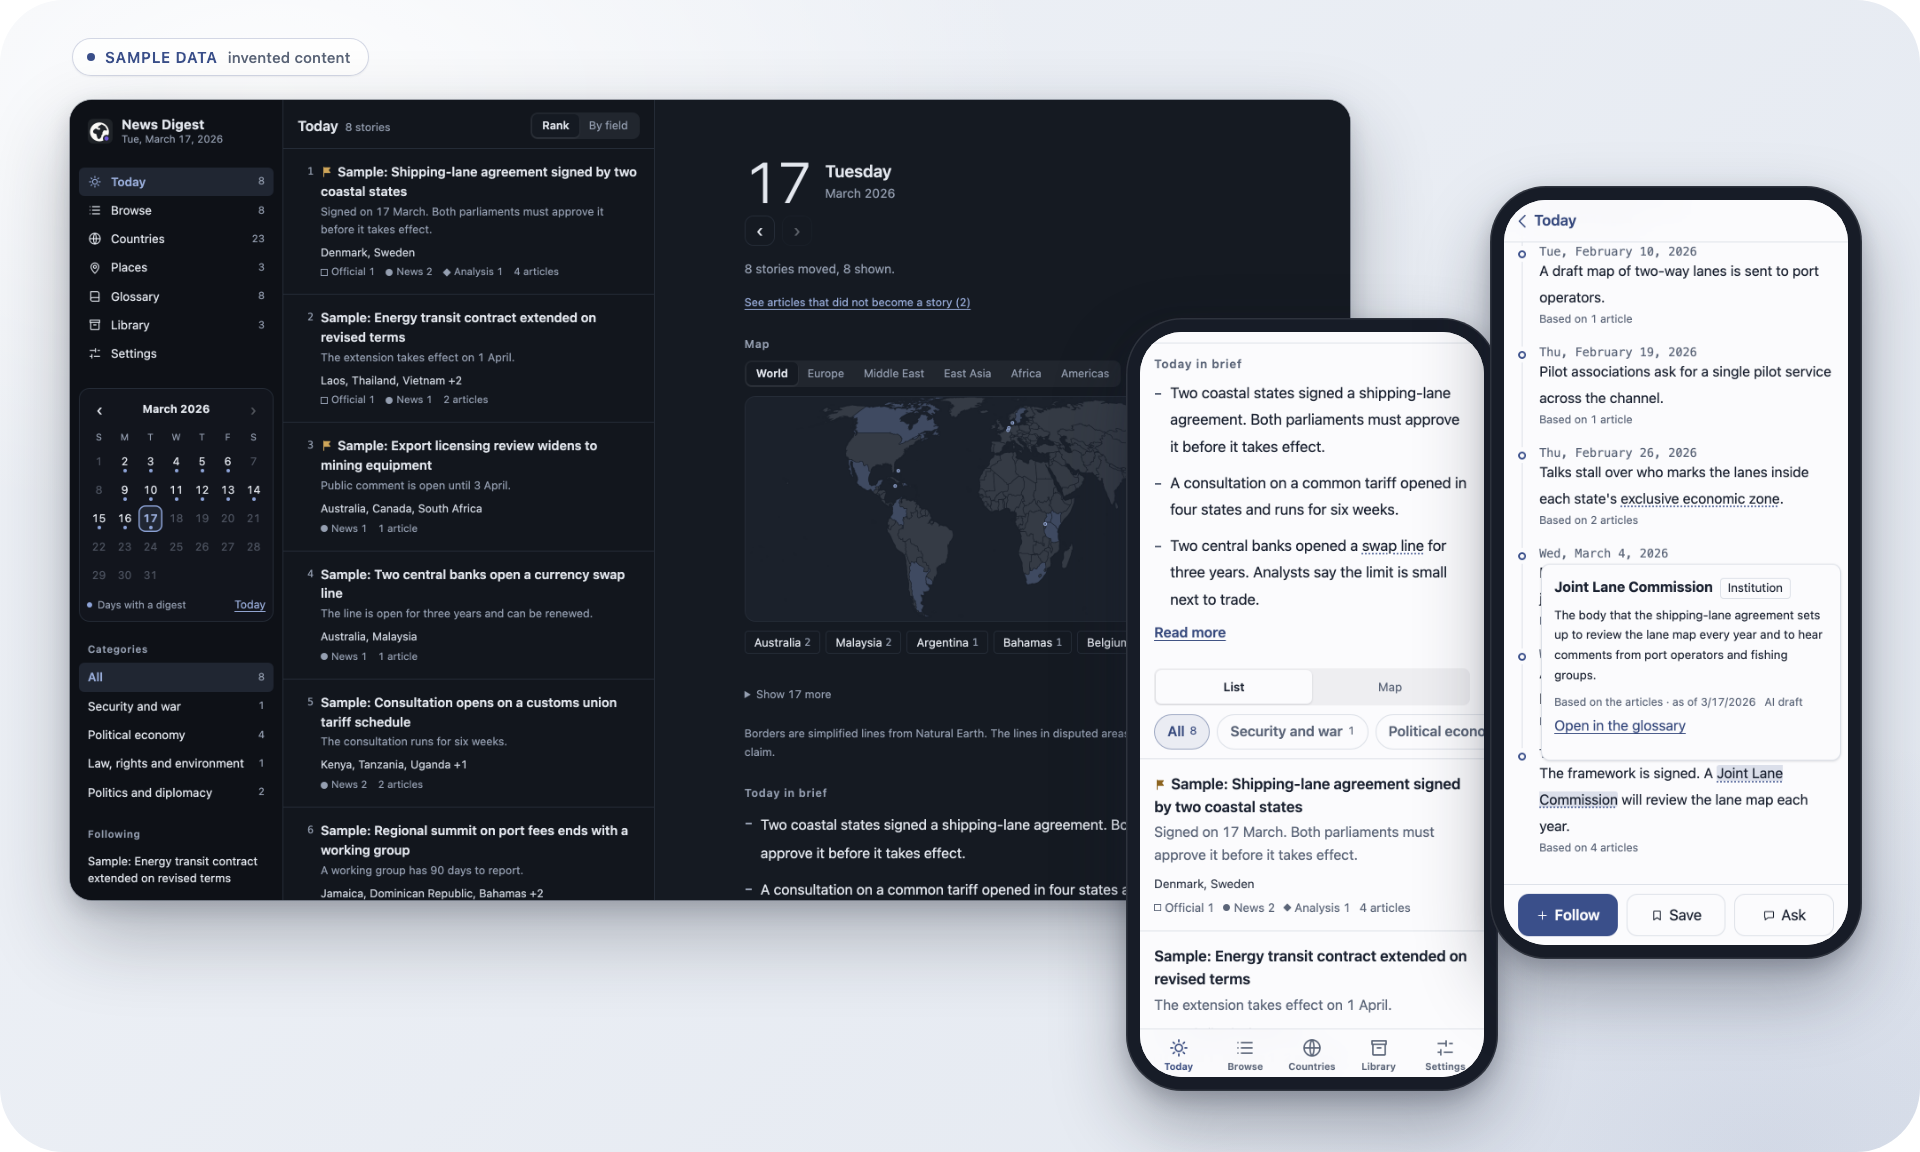
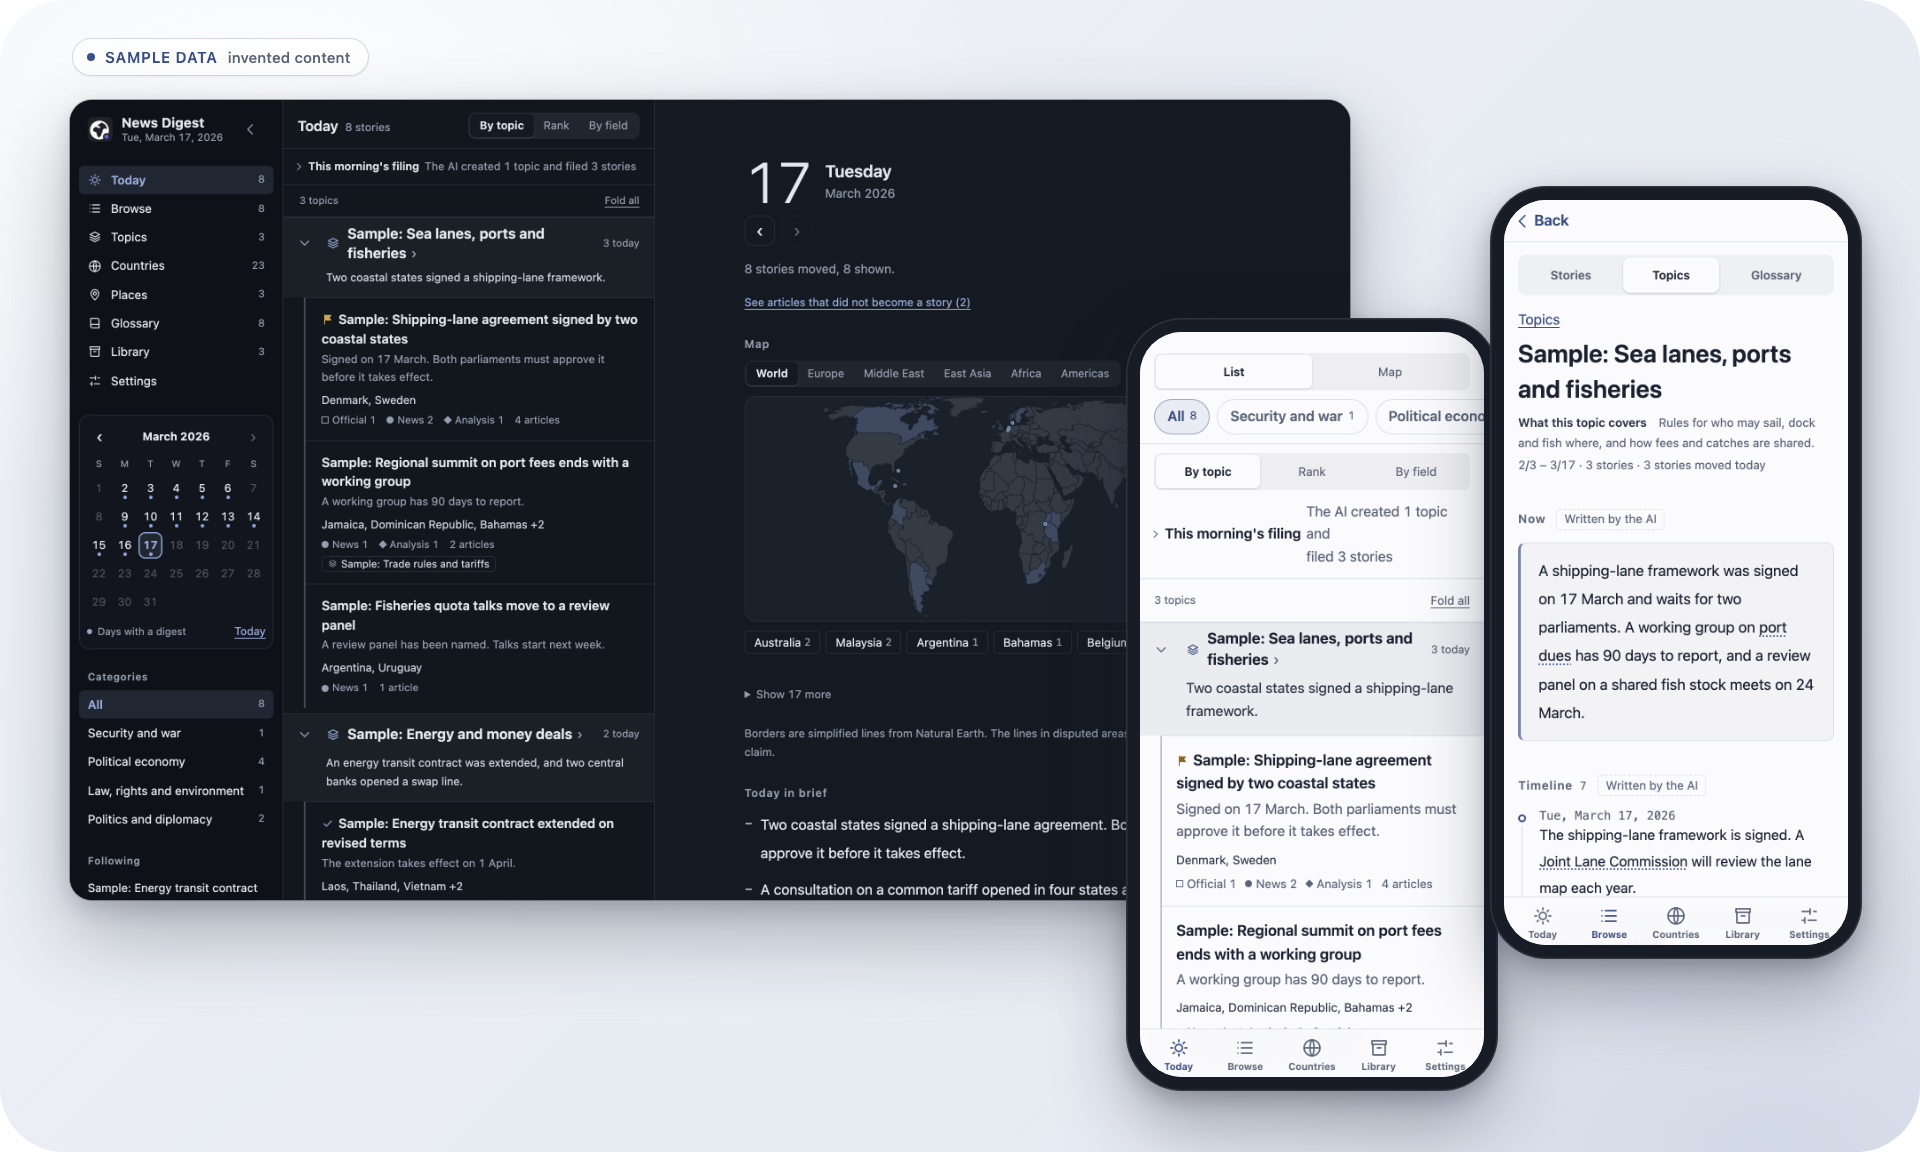
Update the README pictures for the topic-first screens
The hero now shows Today grouped by topic (with the note about this
morning's filing) and a topic page. A new phone picture of a topic page is
added. All pictures show invented sample data only.

Changed region(s): [[0.5938, 0.1875, 0.9688, 0.875], [0.0312, 0.0938, 0.3438, 0.7812], [0.0312, 0.0938, 0.125, 0.125]]

diff --git a/README.md b/README.md
@@ -5,7 +5,7 @@
 <p align="center">A personal morning digest of international politics and political economy news, grouped into continuing stories, readable on a phone or a desktop.</p>
 
 <p align="center">
-  <img src="docs/screenshots/hero.png" alt="News Digest on a wide screen in dark mode, with a list of stories and a world map, and two phones in front: the day's brief with the story list, and one story with its timeline and a glossary card. The content is invented sample data." width="100%">
+  <img src="docs/screenshots/hero.png" alt="News Digest on a wide screen in dark mode, with Today grouped by topic next to a world map, and two phones in front: Today grouped by topic, with the note about this morning's filing, and one topic page with what it covers, where it stands now and its own timeline. The content is invented sample data." width="100%">
 </p>
 
 ## What it does
